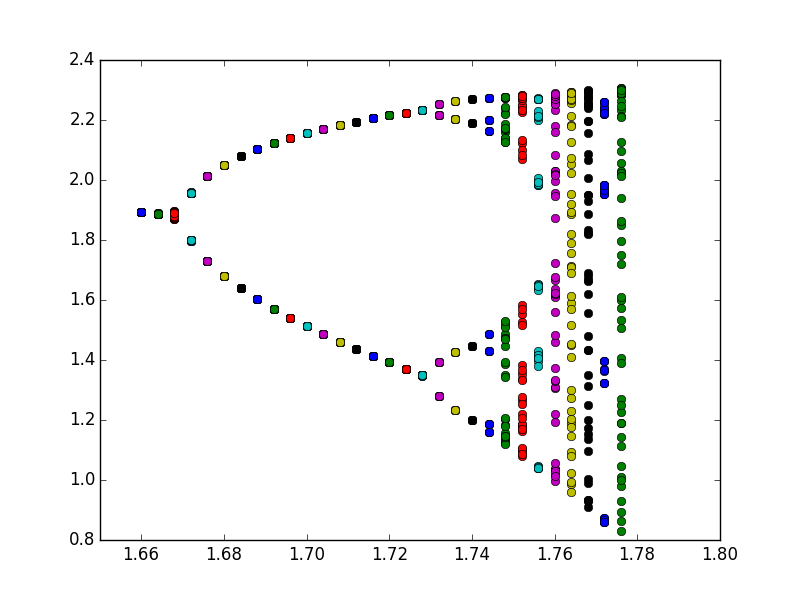
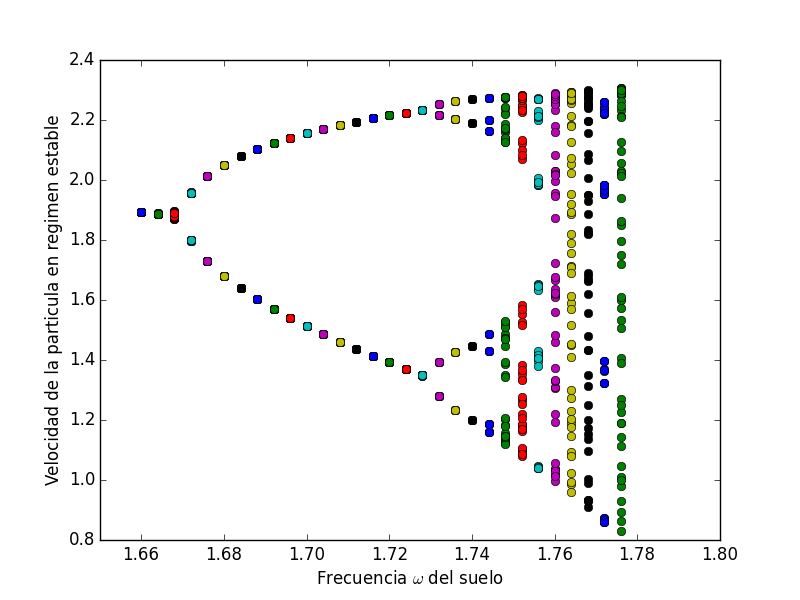
se agregan labels a las figuras

Changed region(s): [[0.0625, 0.18, 0.0938, 0.81], [0.4062, 0.93, 0.625, 0.99]]

diff --git a/tarea2.py b/tarea2.py
@@ -55,7 +55,7 @@ n=np.arange(70)
 plt.subplot(3,1,1)
 plt.ylabel('$v_n$', fontsize=25)
 plt.xlabel('cantidad de rebotes')
-plt.plot(n,vn,label='$w_1=1.66$',color='g')
+plt.plot(n,vn,label='$\omega_1=1.66$',color='g')
 plt.legend()
 plt.title('$N_{relax}$ para $w_1=1.66, w_2=1.685, w_3=1.7$', fontsize=18)
 
@@ -65,7 +65,7 @@ n=np.arange(10)
 plt.subplot(3,1,2)
 plt.ylabel('$v_n$', fontsize=25)
 plt.xlabel('cantidad de rebotes')
-plt.plot(n,vn,label='$w_2=1.685$', color='r')
+plt.plot(n,vn,label='$\omega_2=1.685$', color='r')
 plt.legend()
 
 w=1.7
@@ -74,7 +74,7 @@ n=np.arange(10)
 plt.subplot(3,1,3)
 plt.ylabel('$v_n$', fontsize=25)
 plt.xlabel('cantidad de rebotes')
-plt.plot(n,vn,label='$w_3=1.7$')
+plt.plot(n,vn,label='$\omega_3=1.7$')
 plt.legend()
 
 plt.draw()
@@ -98,6 +98,8 @@ for w in np.linspace(1.66,1.776,30):
 
 
 plt.xlim(1.65,1.8)
+plt.xlabel('Frecuencia $\omega$ del suelo')
+plt.ylabel('Velocidad de la particula en regimen estable')
 plt.draw()
 plt.show()
 plt.savefig('figura2.png')
